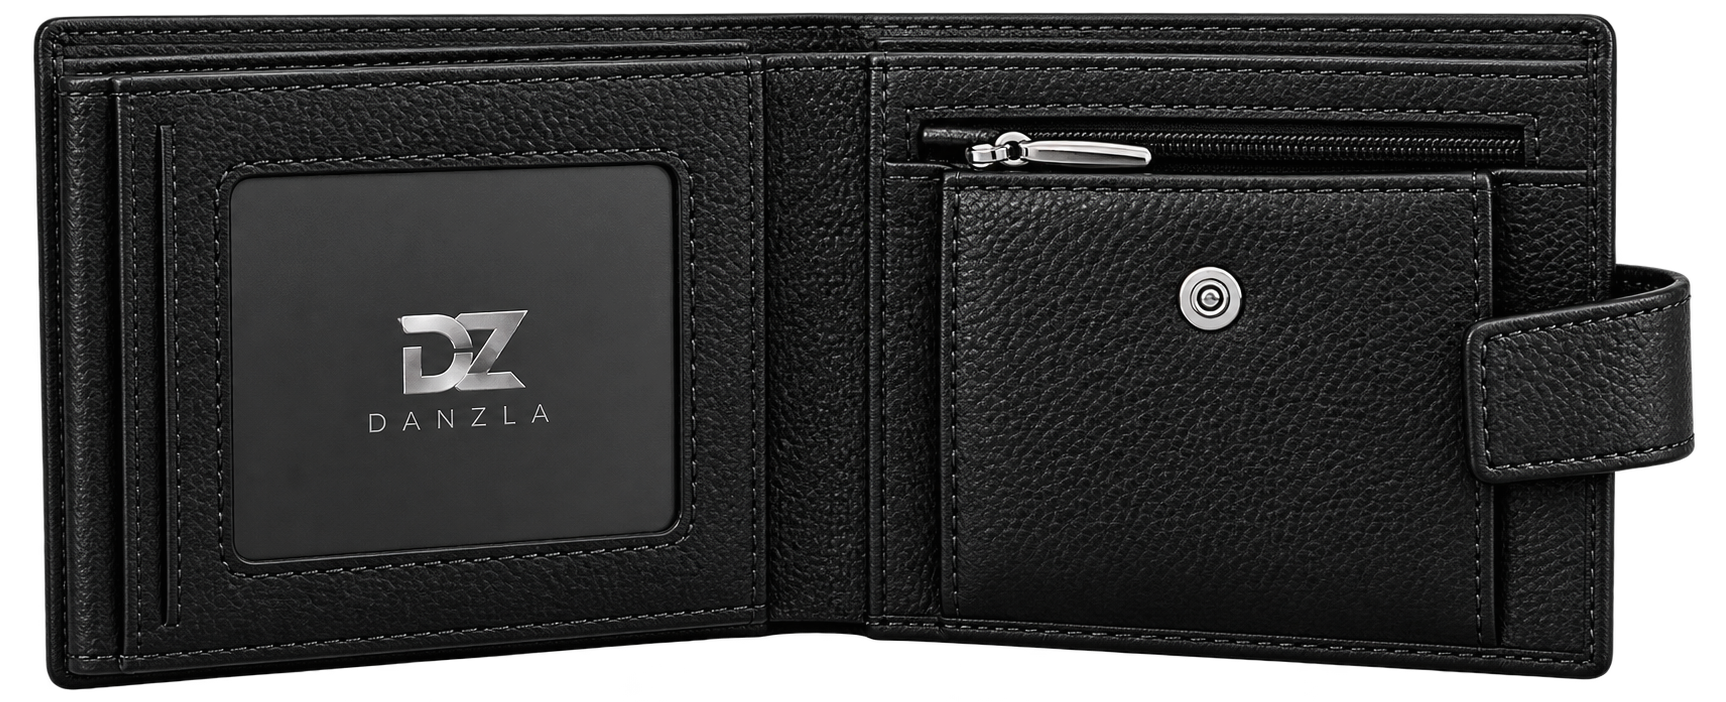
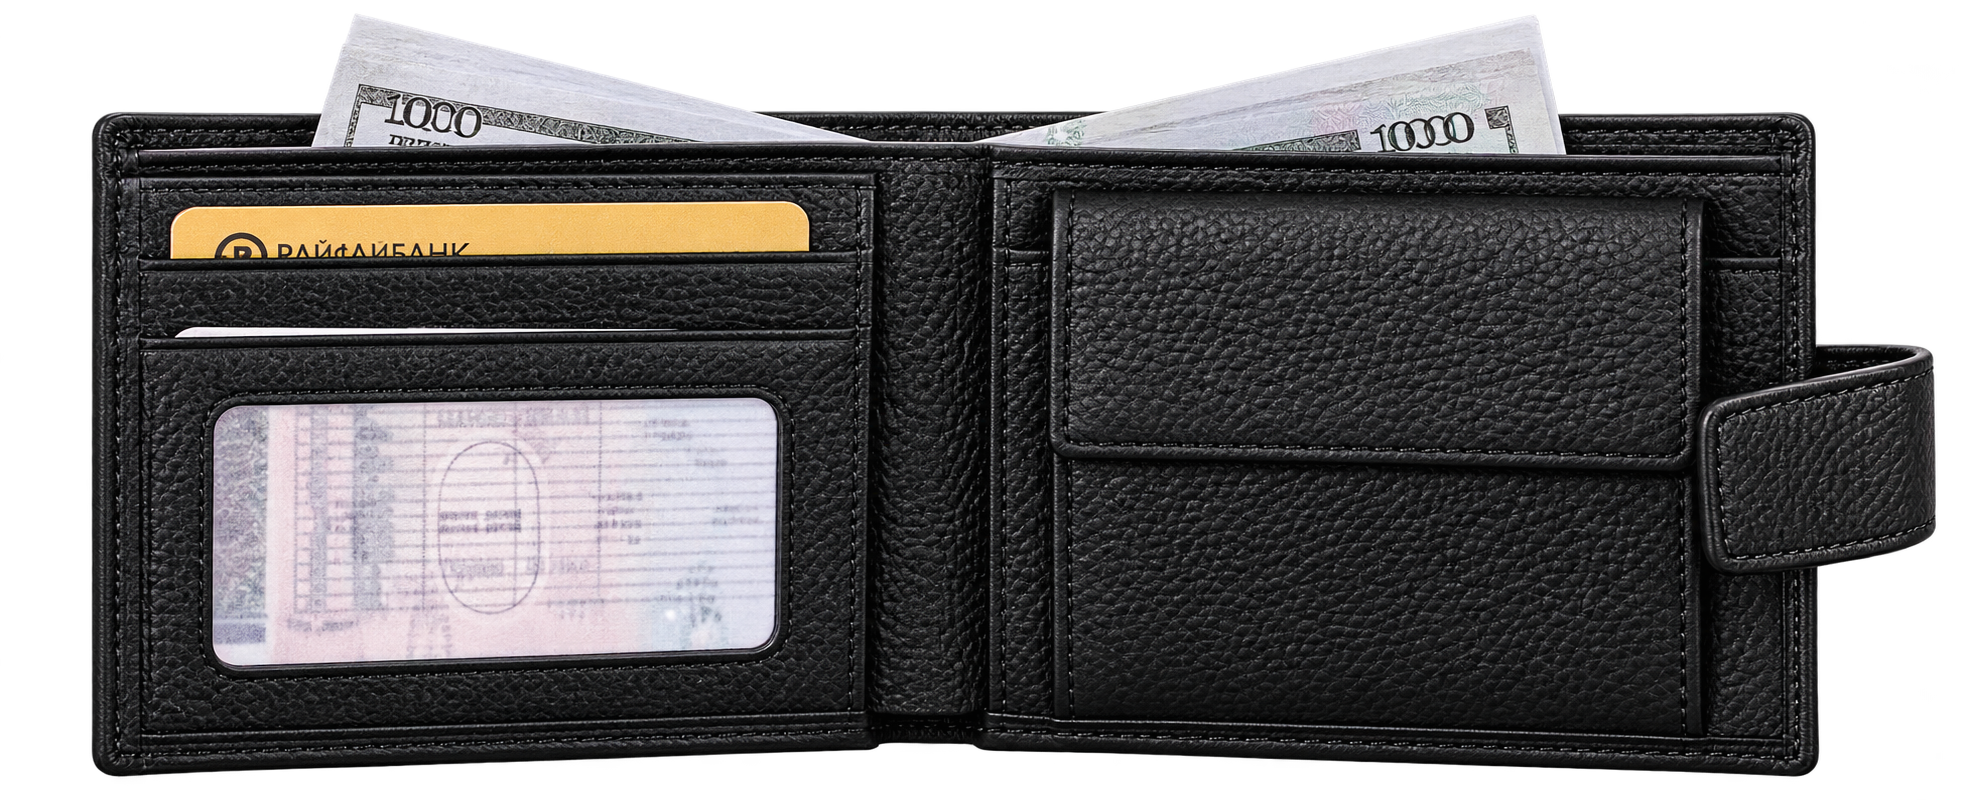
Correct Monaco interior product images

diff --git a/collections/wallets/index.html b/collections/wallets/index.html
@@ -584,8 +584,8 @@ h1,h2,h3{font-family:Thunder,sans-serif}
     <section class="bestsellers" aria-label="Мужские кошельки">
       <h1 class="bestsellers__heading">Кошельки</h1>
       <div class="bestsellers__grid">
-        <a class="product-card" href="../../products/monaco/index.html?color=Black" aria-label="Кошелек Monaco черный"><span class="product-card__media"><img src="../../assets-materials/products/monaco/monaco-black-front.png" alt="Черный кошелек Monaco"><img src="../../assets-materials/products/monaco/monaco-black-interior-1.png" alt="Внутренняя часть кошелька Monaco" loading="lazy"></span><span class="product-card__details"><span class="product-card__title">Monaco</span><span class="product-card__edition">Черный</span></span></a>
-        <a class="product-card" href="../../products/monaco/index.html?color=Chocolate" aria-label="Кошелек Monaco коричневый"><span class="product-card__media"><img src="../../assets-materials/products/monaco/monaco-brown-front.png" alt="Коричневый кошелек Monaco"><img src="../../assets-materials/products/monaco/monaco-brown-interior-1.png" alt="Внутренняя часть кошелька Monaco" loading="lazy"></span><span class="product-card__details"><span class="product-card__title">Monaco</span><span class="product-card__edition">Коричневый</span></span></a>
+        <a class="product-card" href="../../products/monaco/index.html?color=Black" aria-label="Кошелек Monaco черный"><span class="product-card__media"><img src="../../assets-materials/products/monaco/monaco-black-front.png" alt="Черный кошелек Monaco"><img src="../../assets-materials/products/monaco/monaco-black-interior-1.png?v=20261025-2" alt="Внутренняя часть кошелька Monaco" loading="lazy"></span><span class="product-card__details"><span class="product-card__title">Monaco</span><span class="product-card__edition">Черный</span></span></a>
+        <a class="product-card" href="../../products/monaco/index.html?color=Chocolate" aria-label="Кошелек Monaco коричневый"><span class="product-card__media"><img src="../../assets-materials/products/monaco/monaco-brown-front.png" alt="Коричневый кошелек Monaco"><img src="../../assets-materials/products/monaco/monaco-brown-interior-1.png?v=20261025-2" alt="Внутренняя часть кошелька Monaco" loading="lazy"></span><span class="product-card__details"><span class="product-card__title">Monaco</span><span class="product-card__edition">Коричневый</span></span></a>
         <a class="product-card" href="../../products/siena/index.html?color=Black" aria-label="Кошелек Siena черный"><span class="product-card__media"><img src="../../assets-materials/products/siena/siena-black-front.png" alt="Черный кошелек Siena"><img src="../../assets-materials/products/siena/siena-black-interior-1.png" alt="Кошелек Siena в подарочной упаковке" loading="lazy"></span><span class="product-card__details"><span class="product-card__title">Siena</span><span class="product-card__edition">Черный</span></span></a>
         <a class="product-card" href="../../products/siena/index.html?color=Chocolate" aria-label="Кошелек Siena коричневый"><span class="product-card__media"><img src="../../assets-materials/products/siena/siena-brown-front.png" alt="Коричневый кошелек Siena"><img src="../../assets-materials/products/siena/siena-brown-interior-1.png" alt="Внутренняя часть кошелька Siena" loading="lazy"></span><span class="product-card__details"><span class="product-card__title">Siena</span><span class="product-card__edition">Коричневый</span></span></a>
         <a class="product-card" href="../../products/siena/index.html?color=Navy" aria-label="Кошелек Siena синий"><span class="product-card__media"><img src="../../assets-materials/products/siena/siena-navy-front.png" alt="Синий кошелек Siena"><img src="../../assets-materials/products/siena/siena-navy-interior-1.png" alt="Внутренняя часть синего кошелька Siena" loading="lazy"></span><span class="product-card__details"><span class="product-card__title">Siena</span><span class="product-card__edition">Темно-синий</span></span></a>

diff --git a/products/monaco/index.html b/products/monaco/index.html
@@ -101,7 +101,7 @@
       </div>
 
       <div class="gallery" id="gallery" aria-label="Фотографии товара">
-        <figure data-fit="photo"><img src="../../assets-materials/products/monaco/monaco-black-interior-1.png" alt="Monaco изнутри: отделения для купюр, карт и документов"></figure>
+        <figure data-fit="photo"><img src="../../assets-materials/products/monaco/monaco-black-interior-1.png?v=20261025-2" alt="Monaco изнутри: отделения для купюр, карт и документов"></figure>
       </div>
 
       <aside class="product-info">
@@ -114,8 +114,8 @@
           <p class="description">Компактный мужской кошелёк из натуральной кожи с магнитной застёжкой. Внутри — отделения для купюр, банковских карт и водительских документов; формат рассчитан на повседневное ношение без лишнего объёма.</p>
           <div class="choice"><span>Цвет</span><span id="color-name">Black</span></div>
           <ul class="swatches" aria-label="Цвета">
-            <li><button class="swatch" style="--color:#141414" aria-label="Black" aria-pressed="true" data-color="Black" data-code="BLK" data-label="MONACO / BLACK" data-hero="../../assets-materials/products/monaco/monaco-black-front.png" data-hero-alt="Чёрный кошелёк Danzla Monaco из натуральной кожи" data-gallery='[{"src": "../../assets-materials/products/monaco/monaco-black-interior-1.png", "alt": "Monaco изнутри: отделения для купюр, карт и документов"}]' data-story="../../assets-materials/products/monaco/monaco-black-box.png" data-story-alt="Чёрный кошелёк Danzla Monaco в фирменной подарочной упаковке"></button></li>
-            <li><button class="swatch" style="--color:#4a2f22" aria-label="Chocolate" aria-pressed="false" data-color="Chocolate" data-code="CHO" data-label="MONACO / CHOCOLATE" data-hero="../../assets-materials/products/monaco/monaco-brown-front.png" data-hero-alt="Коричневый кошелёк Danzla Monaco из натуральной кожи" data-gallery='[{"src": "../../assets-materials/products/monaco/monaco-brown-interior-1.png", "alt": "Monaco изнутри: отделения для купюр, карт и документов"}]' data-story="../../assets-materials/products/monaco/monaco-brown-box.png" data-story-alt="Коричневый кошелёк Danzla Monaco в фирменной подарочной упаковке"></button></li>
+            <li><button class="swatch" style="--color:#141414" aria-label="Black" aria-pressed="true" data-color="Black" data-code="BLK" data-label="MONACO / BLACK" data-hero="../../assets-materials/products/monaco/monaco-black-front.png" data-hero-alt="Чёрный кошелёк Danzla Monaco из натуральной кожи" data-gallery='[{"src": "../../assets-materials/products/monaco/monaco-black-interior-1.png?v=20261025-2", "alt": "Monaco изнутри: отделения для купюр, карт и документов"}]' data-story="../../assets-materials/products/monaco/monaco-black-box.png" data-story-alt="Чёрный кошелёк Danzla Monaco в фирменной подарочной упаковке"></button></li>
+            <li><button class="swatch" style="--color:#4a2f22" aria-label="Chocolate" aria-pressed="false" data-color="Chocolate" data-code="CHO" data-label="MONACO / CHOCOLATE" data-hero="../../assets-materials/products/monaco/monaco-brown-front.png" data-hero-alt="Коричневый кошелёк Danzla Monaco из натуральной кожи" data-gallery='[{"src": "../../assets-materials/products/monaco/monaco-brown-interior-1.png?v=20261025-2", "alt": "Monaco изнутри: отделения для купюр, карт и документов"}]' data-story="../../assets-materials/products/monaco/monaco-brown-box.png" data-story-alt="Коричневый кошелёк Danzla Monaco в фирменной подарочной упаковке"></button></li>
           </ul>
           <button class="buy" type="button" data-buy>Добавить в корзину</button>
           <p class="stock">В наличии · отправка в течение 2–3 дней</p>

diff --git a/collections/bestsellers/index.html b/collections/bestsellers/index.html
@@ -2976,7 +2976,7 @@
 </component-product-card>
 <component-product-card class='component-product-card' role='listitem' data-ref='product-card' data-flip='grid'>
   <a class='component-product-card__link' href='../../products/monaco/index.html?color=Black' aria-label='Кошелек Monaco черный'></a>
-  <div class='component-product-card__media-container'><div class='component-product-card__media-container__packshot'><div class='component-product-card__media-container__packshot--default'><img src='../../assets-materials/products/monaco/monaco-black-front.png' alt='Кошелек Monaco черный' width='1296' height='1106' loading='lazy' sizes='(min-width: 1024px) 20vw, 50vw' class=''></div><div class='component-product-card__media-container__packshot--hovered'><img src='../../assets-materials/products/monaco/monaco-black-interior-1.png' alt='' width='1726' height='702' loading='lazy' sizes='(min-width: 1024px) 20vw, 50vw' class=''></div></div></div>
+  <div class='component-product-card__media-container'><div class='component-product-card__media-container__packshot'><div class='component-product-card__media-container__packshot--default'><img src='../../assets-materials/products/monaco/monaco-black-front.png' alt='Кошелек Monaco черный' width='1296' height='1106' loading='lazy' sizes='(min-width: 1024px) 20vw, 50vw' class=''></div><div class='component-product-card__media-container__packshot--hovered'><img src='../../assets-materials/products/monaco/monaco-black-interior-1.png?v=20261025-2' alt='' width='1726' height='702' loading='lazy' sizes='(min-width: 1024px) 20vw, 50vw' class=''></div></div></div>
   <div class='component-product-card__footer'><div class='component-product-card__footer__details ts-label-s'><div class='component-product-card__footer__details__tiles'></div><h3 class='component-product-card__footer__details__label--title'>Monaco</h3><p class='component-product-card__footer__details__label--edition ts-grey'>Черный</p><p class='component-product-card__footer__details__label--price'></p></div></div>
 </component-product-card>
 </div>
@@ -2984,7 +2984,7 @@
 <div class='bs-row'>
 <component-product-card class='component-product-card' role='listitem' data-ref='product-card' data-flip='grid'>
   <a class='component-product-card__link' href='../../products/monaco/index.html?color=Chocolate' aria-label='Кошелек Monaco коричневый'></a>
-  <div class='component-product-card__media-container'><div class='component-product-card__media-container__packshot'><div class='component-product-card__media-container__packshot--default'><img src='../../assets-materials/products/monaco/monaco-brown-front.png' alt='Кошелек Monaco коричневый' width='1260' height='1078' loading='lazy' sizes='(min-width: 1024px) 20vw, 50vw' class=''></div><div class='component-product-card__media-container__packshot--hovered'><img src='../../assets-materials/products/monaco/monaco-brown-interior-1.png' alt='' width='1719' height='700' loading='lazy' sizes='(min-width: 1024px) 20vw, 50vw' class=''></div></div></div>
+  <div class='component-product-card__media-container'><div class='component-product-card__media-container__packshot'><div class='component-product-card__media-container__packshot--default'><img src='../../assets-materials/products/monaco/monaco-brown-front.png' alt='Кошелек Monaco коричневый' width='1260' height='1078' loading='lazy' sizes='(min-width: 1024px) 20vw, 50vw' class=''></div><div class='component-product-card__media-container__packshot--hovered'><img src='../../assets-materials/products/monaco/monaco-brown-interior-1.png?v=20261025-2' alt='' width='1719' height='700' loading='lazy' sizes='(min-width: 1024px) 20vw, 50vw' class=''></div></div></div>
   <div class='component-product-card__footer'><div class='component-product-card__footer__details ts-label-s'><div class='component-product-card__footer__details__tiles'></div><h3 class='component-product-card__footer__details__label--title'>Monaco</h3><p class='component-product-card__footer__details__label--edition ts-grey'>Коричневый</p><p class='component-product-card__footer__details__label--price'></p></div></div>
 </component-product-card>
 <component-product-card class='component-product-card' role='listitem' data-ref='product-card' data-flip='grid'>
